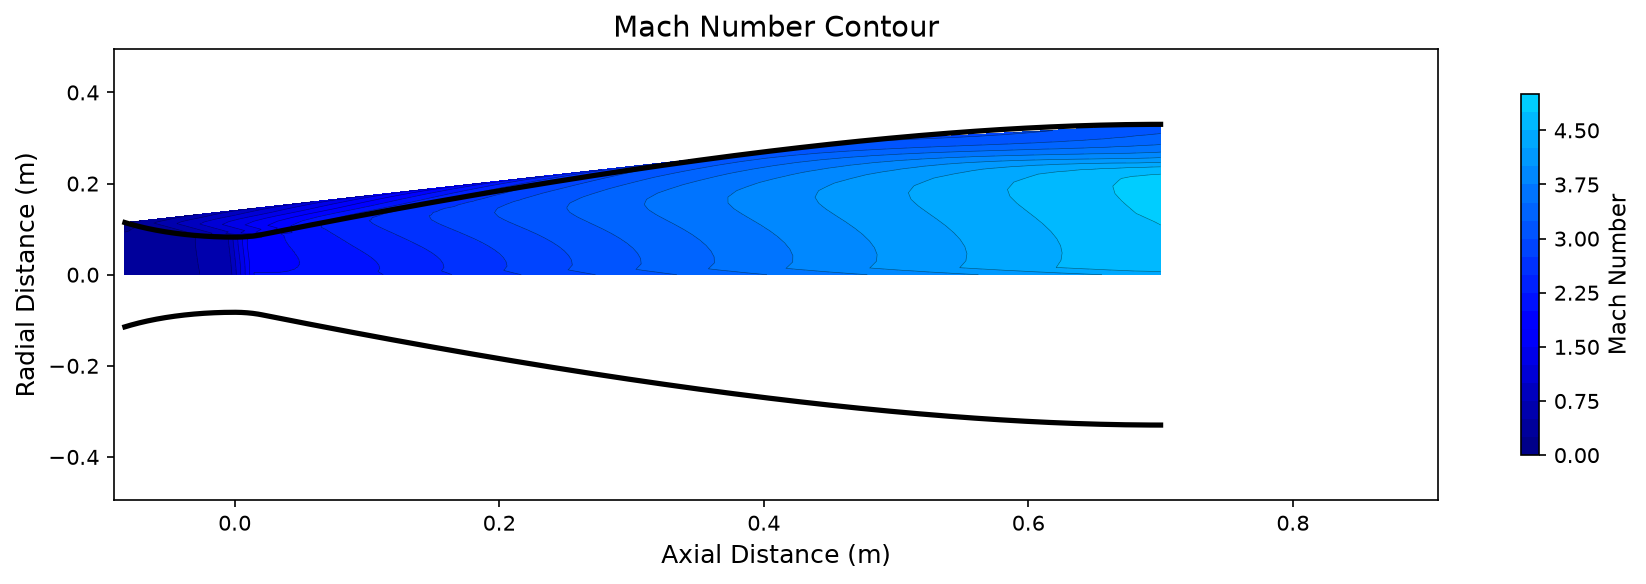
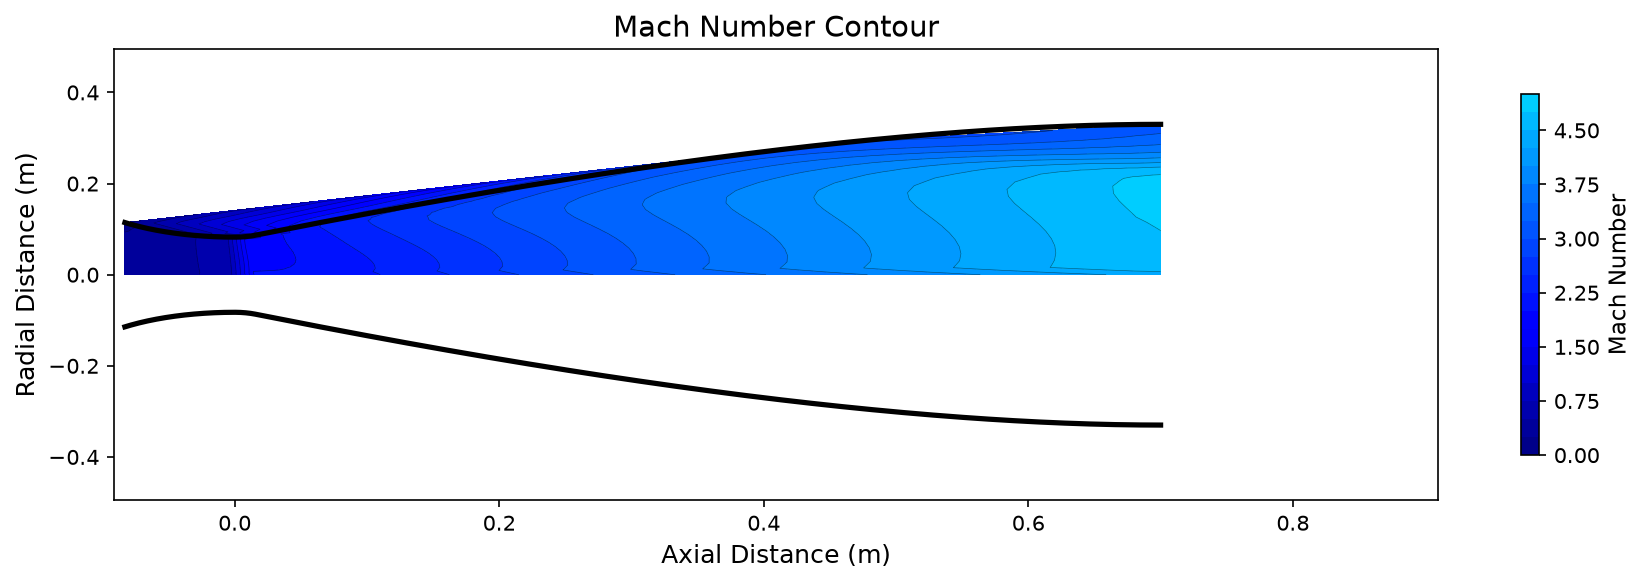
fix: revert to working mesh configurations
- Reverted auto_mesh_resolution changes (caused SU2 divergence)
- Kept working hardcoded resolutions per engine
- RS-25: 2.14% error (PASSED)
- Merlin: 1.97% error (PASSED)
- Raptor: 8.05% error (needs tuning)
- RL10B-2: 14.14% error (needs tuning)

diff --git a/src/pipeline/engine_config.py b/src/pipeline/engine_config.py
@@ -89,8 +89,7 @@ class EngineConfig:
         """Build NozzleConfig from engine preset and overrides.
 
         Uses preset's computed_diverging_length (Rao formula) when ld is None.
-        For CFD: chamber_length=0 (chamber causes SU2 divergence).
-        For viz: use preset's full geometry (chamber included).
+        For CFD: chamber_length=0, throat_radius_of_curvature=0 (chamber causes SU2 divergence).
         """
         base = self.preset_fn()
         ld = self.ld if self.ld is not None else base.computed_diverging_length
@@ -100,9 +99,7 @@ class EngineConfig:
             converging_length=base.converging_length,
             diverging_length=ld,
             chamber_length=0,  # Chamber causes SU2 divergence
-            chamber_radius=base.chamber_radius,
-            throat_radius_of_curvature=base.throat_radius_of_curvature,
-            convergent_half_angle=base.convergent_half_angle,
+            throat_radius_of_curvature=0,  # RoC causes mesh issues
             theta_n=self.theta_n,
             theta_e=0.0,
             nozzle_length_fraction=0,
